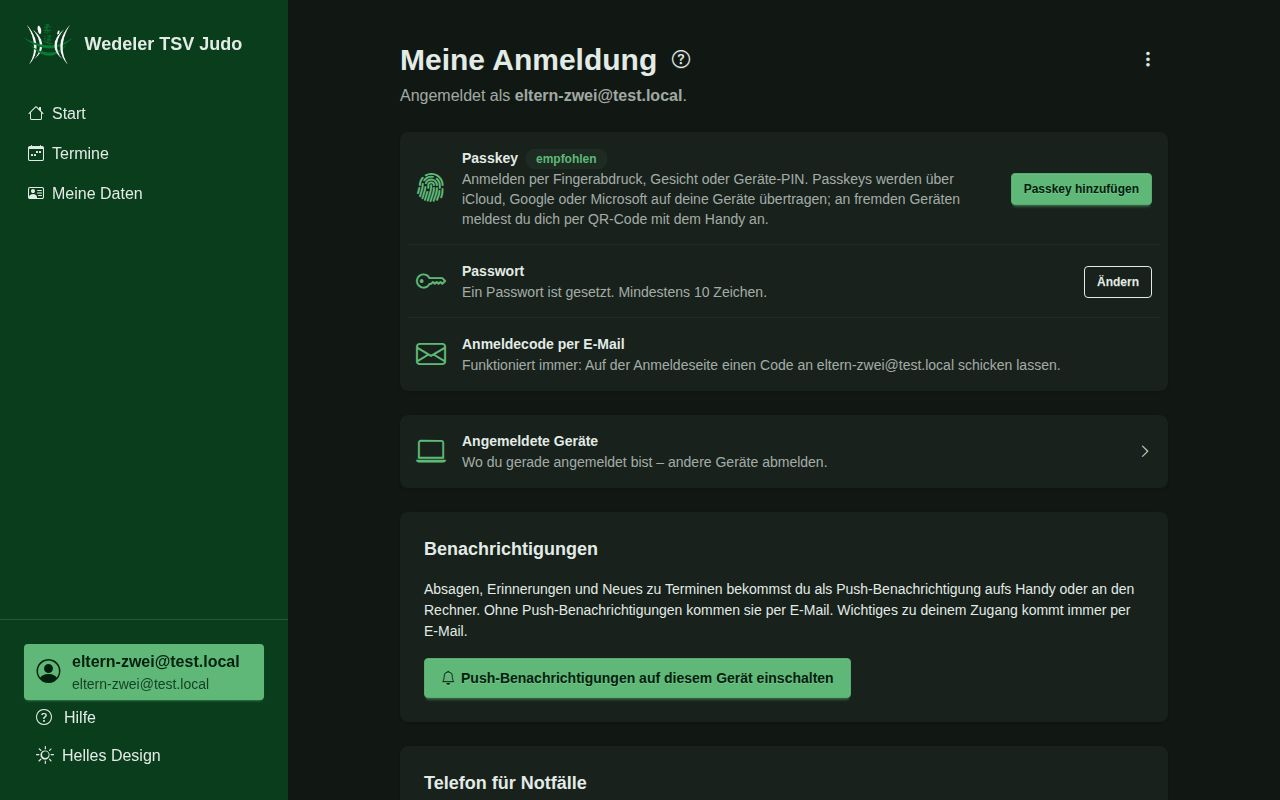
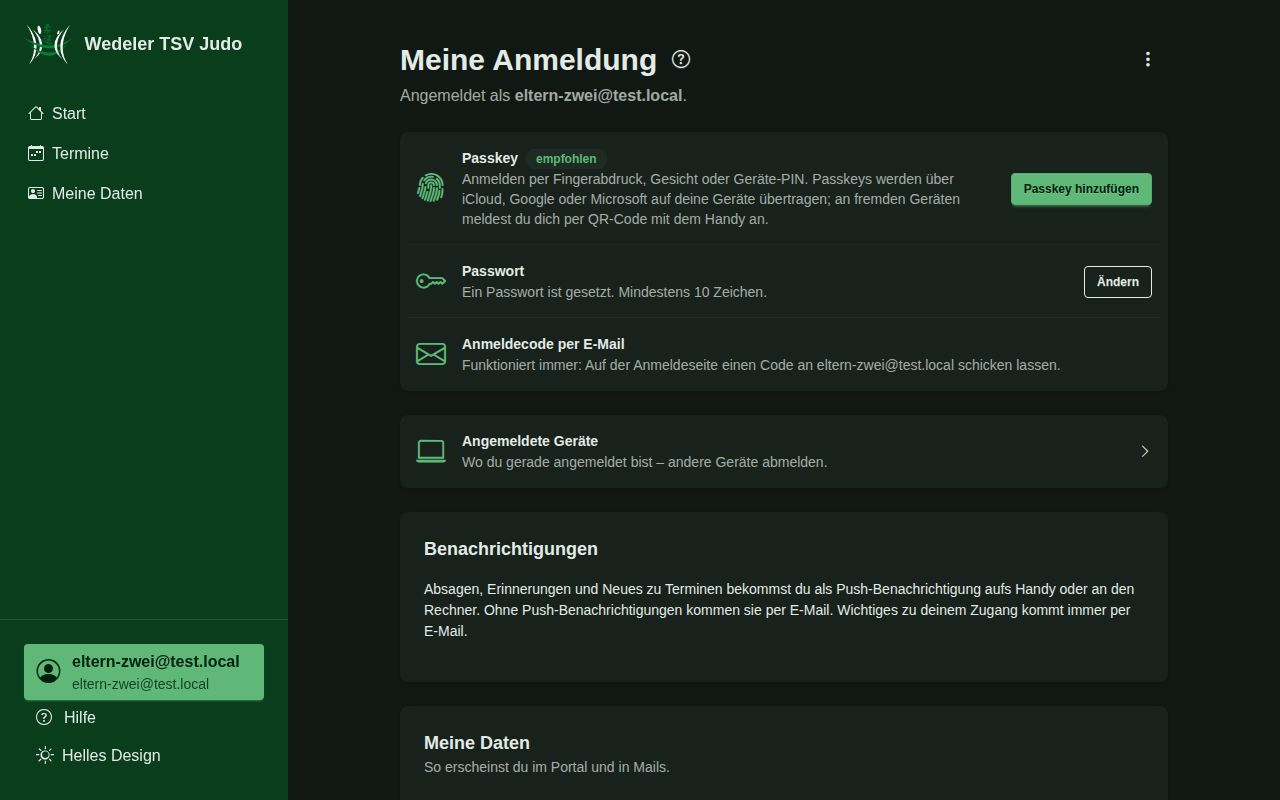
feat: Name des Benutzers bearbeitbar, Anrede „Liebe Eltern von …“
- Die Benutzerverwaltung ändert Vor- und Nachname zusammen mit den Rollen.
- Jeder pflegt Name und Telefon selbst unter „Meine Anmeldung“ → „Meine Daten“
  (Änderungsprotokoll).
- Eltern werden wie bisher ohne Namen eingeladen. Bis sie ihn ergänzen, lautet
  die Anrede in Einladung, Mails und auf der Startseite „Liebe Eltern von …“,
  und die Startseite erinnert daran. accounts fragt die Anrede über das Signal
  greeting_requested ab, members beantwortet es.

Claude-Session: https://claude.ai/code/session_017LHgXea5AxfRcr57bsDwjB

Changed region(s): [[0.3125, 0.8125, 0.6875, 0.875], [0.3125, 0.9062, 0.5312, 1.0]]

diff --git a/portal/templates/accounts/email/invitation.html b/portal/templates/accounts/email/invitation.html
@@ -3,7 +3,7 @@
   <table role="presentation" width="100%" cellpadding="0" cellspacing="0" style="max-width:560px;margin:0 auto;background:#ffffff;border-radius:14px;">
     <tr><td style="background:#0a3d1c;color:#ffffff;padding:20px 28px;border-radius:14px 14px 0 0;font-size:20px;font-weight:700;">Wedeler TSV Judo</td></tr>
     <tr><td style="padding:28px;">
-      <p style="margin:0 0 16px;font-size:16px;">Hallo{% if invitation.first_name %} {{ invitation.first_name }}{% endif %},</p>
+      <p style="margin:0 0 16px;font-size:16px;">{{ greeting }},</p>
       <p style="margin:0 0 16px;font-size:16px;line-height:1.5;">du wurdest ins Vereinsportal der Judo-Abteilung im Wedeler TSV eingeladen.</p>
       <p style="margin:24px 0;"><a href="{{ url }}" style="background:#027d31;color:#ffffff;text-decoration:none;padding:12px 22px;border-radius:10px;font-weight:600;display:inline-block;">Zugang einrichten</a></p>
       <p style="margin:0 0 16px;font-size:14px;color:#5c5c5c;line-height:1.5;">Der Link ist {{ days }} Tage gültig. Nach der Einrichtung meldest du dich auf <a href="{{ base_url }}" style="color:#027d31;">{{ base_url }}</a> mit Passkey, Passwort oder einem Code per E-Mail an. Ist der Link abgelaufen oder funktioniert nicht, schreib an <a href="mailto:judo@wedeler-tsv.de" style="color:#027d31;">judo@wedeler-tsv.de</a>, dann bekommst du einen neuen.</p>

diff --git a/portal/privacy/templates/privacy/email/deletion_notice.html b/portal/privacy/templates/privacy/email/deletion_notice.html
@@ -3,7 +3,7 @@
   <table role="presentation" width="100%" cellpadding="0" cellspacing="0" style="max-width:560px;margin:0 auto;background:#ffffff;border-radius:14px;">
     <tr><td style="background:#0a3d1c;color:#ffffff;padding:20px 28px;border-radius:14px 14px 0 0;font-size:20px;font-weight:700;">Wedeler TSV Judo</td></tr>
     <tr><td style="padding:28px;">
-      <p style="margin:0 0 16px;font-size:16px;">Hallo {{ user.get_short_name }},</p>
+      <p style="margin:0 0 16px;font-size:16px;">{{ user.greeting }},</p>
       <p style="margin:0 0 16px;font-size:16px;line-height:1.5;">{% if own %}dein Austritt aus der Judo-Abteilung ist eingetragen{% else %}der Austritt von <strong>{{ member.display_name }}</strong> aus der Judo-Abteilung ist eingetragen{% endif %} ({{ member.left_on|date:"d.m.Y" }}).</p>
       <p style="margin:0 0 16px;font-size:16px;line-height:1.5;">Am <strong>{{ when|date:"d.m.Y" }}</strong> löschen wir {% if own %}deine Daten{% else %}die Daten von {{ member.display_name }}{% endif %} im Vereinsportal: Stammdaten, Teilnahmen an Terminen und Abrechnungen. Hast du dann kein weiteres Mitglied im Portal, wird auch dein Zugang gelöscht.</p>
       <p style="margin:0 0 16px;font-size:16px;line-height:1.5;">Bis dahin kannst du unter „Meine Daten“ die Datenauskunft (Art. 15 DSGVO) als PDF herunterladen.</p>

diff --git a/portal/help/templates/help/chapters/benutzer.html b/portal/help/templates/help/chapters/benutzer.html
@@ -4,7 +4,7 @@
 <h2 id="einladen">Einladen und Rollen</h2>
 <ul>
   <li><strong>Benutzer anlegen:</strong> E-Mail, Name und Rollen (Übungsleiter, Abteilungsleiter, Administrator); die Person bekommt eine Einladung per Mail. Statt per Mail kannst du auch nur einen Link erzeugen und z. B. per Messenger weitergeben.</li>
-  <li><strong>Rollen ändern:</strong> Auf den Namen tippen, Rollen wählen, speichern. Administratoren ändert nur ein Administrator.</li>
+  <li><strong>Name und Rollen ändern:</strong> Auf den Namen tippen, Name korrigieren oder Rollen wählen, speichern. Den eigenen Namen ändert jeder auch selbst unter <strong>Meine Anmeldung</strong>. Administratoren ändert nur ein Administrator.</li>
   <li><strong>Deaktivieren:</strong> Am Benutzer über <strong><i class="bi bi-three-dots-vertical" aria-hidden="true"></i> Weitere Aktionen</strong> → <strong>Benutzer deaktivieren</strong>. Er kann sich dann nicht mehr anmelden; wieder aktivieren geht jederzeit.</li>
   <li>Hat jemand den Zugang noch nicht eingerichtet, kannst du am Benutzer die Einladung <strong>erneut senden</strong> oder einen neuen Link erstellen.</li>
 </ul>

diff --git a/portal/members/templates/members/email/link_notice.html b/portal/members/templates/members/email/link_notice.html
@@ -3,7 +3,7 @@
   <table role="presentation" width="100%" cellpadding="0" cellspacing="0" style="max-width:560px;margin:0 auto;background:#ffffff;border-radius:14px;">
     <tr><td style="background:#0a3d1c;color:#ffffff;padding:20px 28px;border-radius:14px 14px 0 0;font-size:20px;font-weight:700;">Wedeler TSV Judo</td></tr>
     <tr><td style="padding:28px;">
-      <p style="margin:0 0 16px;font-size:16px;">Hallo {{ user.get_short_name }},</p>
+      <p style="margin:0 0 16px;font-size:16px;">{{ user.greeting }},</p>
       <p style="margin:0 0 16px;font-size:16px;line-height:1.5;">dein Benutzer im Vereinsportal ist jetzt mit <strong>{{ member.display_name }}</strong> verknüpft{% if kind == "guardian" %} (als Elternteil){% endif %}.</p>
       <p style="margin:0 0 16px;font-size:16px;line-height:1.5;">Unter „Meine Daten“ siehst du die Daten und kannst Kontakt- und Judo-Daten selbst anpassen.</p>
       <p style="margin:24px 0;"><a href="{{ url }}" style="background:#027d31;color:#ffffff;text-decoration:none;padding:12px 22px;border-radius:10px;font-weight:600;display:inline-block;">Meine Daten öffnen</a></p>

diff --git a/portal/templates/core/home.html b/portal/templates/core/home.html
@@ -4,7 +4,7 @@
 {% block content %}
 {% open_confirmations user as open_hours %}{% pending_claims_count user as open_claims %}
 <header class="mb-6">
-  <h1 class="text-3xl font-bold">Hallo {{ user.get_short_name }}</h1>
+  <h1 class="text-3xl font-bold">{{ user.greeting }}</h1>
   {% if open_claims %}
   <ul class="mt-3 flex flex-wrap gap-2" aria-label="Zu erledigen">
     <li><a class="badge badge-soft badge-primary gap-1 py-3 hover:underline" href="{% url 'claim_list' %}">{{ open_claims }} Abrechnung{{ open_claims|pluralize:"en" }} zu prüfen <i class="bi bi-arrow-right" aria-hidden="true"></i></a></li>
@@ -12,6 +12,9 @@
   {% endif %}
 </header>
 
+{% if not user.first_name %}
+<div class="alert alert-soft mb-8"><i class="bi bi-person-vcard text-lg" aria-hidden="true"></i><span>Wir kennen deinen Namen noch nicht. Ergänze ihn bitte unter <a class="link" href="{% url 'security' %}#meine-daten">Meine Daten</a>.</span></div>
+{% endif %}
 {% include "notifications/_teaser.html" %}
 {% if open_hours %}
 <section class="card mb-8 bg-base-100 shadow-sm" aria-labelledby="h-stunden"><div class="card-body">

diff --git a/portal/notifications/templates/notifications/email/notification.html b/portal/notifications/templates/notifications/email/notification.html
@@ -3,7 +3,7 @@
   <table role="presentation" width="100%" cellpadding="0" cellspacing="0" style="max-width:560px;margin:0 auto;background:#ffffff;border-radius:14px;">
     <tr><td style="background:#0a3d1c;color:#ffffff;padding:20px 28px;border-radius:14px 14px 0 0;font-size:20px;font-weight:700;">Wedeler TSV Judo</td></tr>
     <tr><td style="padding:28px;">
-      <p style="margin:0 0 16px;font-size:16px;">Hallo {{ user.get_short_name }},</p>
+      <p style="margin:0 0 16px;font-size:16px;">{{ user.greeting }},</p>
       <p style="margin:0 0 16px;font-size:16px;line-height:1.5;">{{ body }}</p>
       <p style="margin:24px 0;"><a href="{{ url }}" style="background:#027d31;color:#ffffff;text-decoration:none;padding:12px 22px;border-radius:10px;font-weight:600;display:inline-block;">Im Portal öffnen</a></p>
       <p style="margin:0;font-size:14px;color:#5c5c5c;line-height:1.5;">Tipp: Unter „Meine Anmeldung“ kannst du Push-Benachrichtigungen aufs Handy einschalten, dann kommen solche Hinweise dort an.</p>

diff --git a/portal/templates/accounts/security.html b/portal/templates/accounts/security.html
@@ -22,10 +22,11 @@
   </li>
 </ul>
 {% include "notifications/_settings.html" %}
-<section class="card mt-6 bg-base-100 shadow-sm" aria-labelledby="h-telefon"><div class="card-body gap-4">
-  <h2 class="card-title" id="h-telefon">Telefon für Notfälle</h2>
+<section class="card mt-6 bg-base-100 shadow-sm" aria-labelledby="h-daten" id="meine-daten"><div class="card-body gap-4">
+  <div><h2 class="card-title" id="h-daten">Meine Daten</h2><p class="text-sm text-base-content/70">So erscheinst du im Portal und in Mails.</p></div>
   <form method="post" class="flex flex-col gap-4">{% csrf_token %}
-    {{ phone_form }}
+    <div class="grid gap-x-4 sm:grid-cols-2">{{ profile_form.first_name.as_field_group }}{{ profile_form.last_name.as_field_group }}</div>
+    {{ profile_form.phone.as_field_group }}
     <div><button type="submit" class="btn btn-primary">Speichern</button></div>
   </form>
 </div></section>

diff --git a/portal/help/templates/help/chapters/zugang.html b/portal/help/templates/help/chapters/zugang.html
@@ -12,8 +12,11 @@
 <h2 id="geraete">Angemeldete Geräte</h2>
 <p>Du siehst, wo du gerade angemeldet bist, und kannst andere Geräte abmelden – z. B. nach der Nutzung eines fremden Rechners.</p>
 
-<h2 id="telefon">Telefon für Notfälle</h2>
-<p>Eltern tragen hier ihre Telefonnummer ein. Die Übungsleiter eines Termins sehen sie in der Teilnehmerliste, um euch im Notfall zu erreichen.</p>
+<h2 id="daten">Meine Daten</h2>
+<ul>
+  <li><strong>Name:</strong> So erscheinst du im Portal und in Mails. Eltern laden wir ohne Namen ein; bis ihr ihn ergänzt, schreiben wir „Liebe Eltern von …“ und die Startseite erinnert daran.</li>
+  <li><strong>Telefon für Notfälle:</strong> Eltern tragen hier ihre Telefonnummer ein. Die Übungsleiter eines Termins sehen sie in der Teilnehmerliste, um euch im Notfall zu erreichen.</li>
+</ul>
 
 <h2 id="abmelden">Abmelden und Zugang löschen</h2>
 <ul>

diff --git a/portal/accounts/views.py b/portal/accounts/views.py
@@ -12,7 +12,7 @@ from django.views.decorators.http import require_POST
 from portal.core import audit
 
 from . import services
-from .forms import InvitationForm, PhoneForm, RolesForm
+from .forms import InvitationForm, ProfileForm, UserForm
 from .models import Invitation, Role, User
 from .permissions import MANAGE_USERS, role_required
 
@@ -66,25 +66,28 @@ def setup_login(request: HttpRequest) -> HttpResponse:
 
 @login_required
 def security(request: HttpRequest) -> HttpResponse:
-    """„Meine Anmeldung“: Passkeys, Passwort, angemeldete Geräte und Telefon für Notfälle."""
-    form = PhoneForm(request.POST or None, instance=request.user)
-    before = request.user.phone  # type: ignore[union-attr]
+    """„Meine Anmeldung“: Passkeys, Passwort, angemeldete Geräte und eigene Daten (Name, Telefon für Notfälle)."""
+    user: User = request.user  # type: ignore[assignment]
+    before = _profile(user)
+    form = ProfileForm(request.POST or None, instance=user)
     if request.method == "POST" and form.is_valid():
         form.save()
-        if before != request.user.phone:  # type: ignore[union-attr]
-            audit.log(
-                request.user,
-                audit.Area.LOGIN,
-                "phone",
-                "Telefon geändert",
-                user=request.user,
-                changes={"Telefon": [before, request.user.phone]},  # type: ignore[union-attr]
-            )
-        messages.success(request, "Telefon gespeichert.")
+        changes = _changes(before, _profile(user))
+        if changes:
+            audit.log(user, audit.Area.LOGIN, "profile", "Eigene Daten geändert", user=user, changes=changes)
+        messages.success(request, "Deine Daten sind gespeichert.")
         return redirect("security")
-    context = _login_methods(request.user)  # type: ignore[arg-type]
-    context["phone_form"] = form
+    context = _login_methods(user)
+    context["profile_form"] = form
     return render(request, "accounts/security.html", context)
+
+
+def _profile(user: User) -> dict[str, str]:
+    return {"Vorname": user.first_name, "Nachname": user.last_name, "Telefon": user.phone}
+
+
+def _changes(before: dict[str, str], after: dict[str, str]) -> dict[str, list[str]]:
+    return {label: [before[label], after[label]] for label in before if before[label] != after[label]}
 
 
 def _login_methods(user: User) -> dict[str, object]:
@@ -187,7 +190,9 @@ def edit_user(request: HttpRequest, pk: int) -> HttpResponse:
     if target_user.has_role(Role.ADMIN) and not allow_admin:
         messages.error(request, "Administratoren kann nur ein Administrator ändern.")
         return redirect("user_list")
-    form = RolesForm(request.POST or None, allow_admin=allow_admin, initial={"roles": target_user.roles})
+    before = {"Vorname": target_user.first_name, "Nachname": target_user.last_name}
+    before_name = target_user.display_name
+    form = UserForm(request.POST or None, instance=target_user, allow_admin=allow_admin)
     if request.method == "POST" and form.is_valid():
         roles = list(form.cleaned_data["roles"])
         if not allow_admin and Role.ADMIN in target_user.roles:
@@ -195,18 +200,24 @@ def edit_user(request: HttpRequest, pk: int) -> HttpResponse:
         if target_user == actor and Role.ADMIN in target_user.roles and Role.ADMIN not in roles:
             messages.error(request, "Du kannst dir die Administrator-Rolle nicht selbst entziehen.")
             return redirect("edit_user", pk=target_user.pk)
-        before = target_user.role_labels
+        form.save()
+        changes = _changes(before, {"Vorname": target_user.first_name, "Nachname": target_user.last_name})
+        if changes:
+            audit.log(
+                actor, audit.Area.USERS, "name", f"Name von {before_name} geändert", user=target_user, changes=changes
+            )
+        role_before = target_user.role_labels
         target_user.set_roles(roles)
-        if before != target_user.role_labels:
+        if role_before != target_user.role_labels:
             audit.log(
                 actor,
                 audit.Area.USERS,
                 "roles",
                 f"Rollen von {target_user.display_name} geändert",
                 user=target_user,
-                changes={"Rollen": [", ".join(before), ", ".join(target_user.role_labels)]},
+                changes={"Rollen": [", ".join(role_before), ", ".join(target_user.role_labels)]},
             )
-        messages.success(request, f"Rollen von {target_user.display_name} gespeichert.")
+        messages.success(request, f"{target_user.display_name} gespeichert.")
         return redirect("user_list")
     return render(
         request,

diff --git a/portal/accounts/tests/test_accounts.py b/portal/accounts/tests/test_accounts.py
@@ -8,6 +8,7 @@ from django.utils import timezone
 from portal.accounts import services
 from portal.accounts.adapter import PortalAccountAdapter
 from portal.accounts.models import Invitation, Role, User
+from portal.core.models import AuditEntry
 
 pytestmark = pytest.mark.django_db
 
@@ -220,3 +221,29 @@ def test_security_page_offers_add_or_manage_passkey(client) -> None:
     Authenticator.objects.create(user=user, type=Authenticator.Type.WEBAUTHN, data={"name": "Handy"})
     page = client.get(reverse("security")).content.decode()
     assert ">Verwalten<" in page and ">Passkey hinzufügen<" not in page
+
+
+class TestName:
+    def test_users_change_their_own_name(self, client) -> None:
+        user = make_user("mia@example.org", Role.MEMBER)
+        client.force_login(user)
+        response = client.post(
+            reverse("security"), {"first_name": " Mia ", "last_name": "Muster", "phone": "0170 1"}, follow=True
+        )
+        assert "Deine Daten sind gespeichert." in response.content.decode()
+        user.refresh_from_db()
+        assert (user.first_name, user.last_name, user.phone) == ("Mia", "Muster", "0170 1")
+        entry = AuditEntry.objects.get(action="profile")
+        assert entry.changes["Vorname"] == ["", "Mia"] and "Telefon" in entry.changes
+
+    def test_user_management_changes_name_and_roles(self, client) -> None:
+        client.force_login(make_user("alex@example.org", Role.DEPARTMENT_HEAD))
+        mia = make_user("mia@example.org", Role.MEMBER)
+        page = client.get(reverse("edit_user", args=[mia.pk])).content.decode()
+        assert 'name="first_name"' in page and 'name="last_name"' in page
+        client.post(
+            reverse("edit_user", args=[mia.pk]), {"first_name": "Mia", "last_name": "Muster", "roles": ["trainer"]}
+        )
+        mia.refresh_from_db()
+        assert (mia.first_name, mia.last_name, mia.roles) == ("Mia", "Muster", ["trainer"])
+        assert AuditEntry.objects.get(action="name").changes == {"Vorname": ["", "Mia"], "Nachname": ["", "Muster"]}

diff --git a/portal/members/tests/test_access.py b/portal/members/tests/test_access.py
@@ -125,3 +125,31 @@ def test_unlink(client, head) -> None:
     client.force_login(head)
     client.post(reverse("member_unlink", args=[member.pk, member_link.pk]))
     assert not MemberLink.objects.exists()
+
+
+def test_parents_are_greeted_with_their_children(client, head, django_capture_on_commit_callbacks) -> None:
+    """Eltern laden wir ohne Namen ein; Anrede „Liebe Eltern von …“, bis sie ihren Namen ergänzen."""
+    kim, lea = make_member("Kim", age=8), make_member("Lea", age=6)
+    with django_capture_on_commit_callbacks(execute=True):
+        _, invitation = services.give_access(kim, "eltern@example.org", LinkKind.GUARDIAN, invited_by=head)
+    assert invitation is not None and (invitation.first_name, invitation.last_name) == ("", "")
+    assert mail.outbox[0].body.startswith("Liebe Eltern von Kim,")
+
+    client.post(reverse("accept_invitation", args=[invitation.token]))
+    parent = User.objects.get(email="eltern@example.org")
+    services.link(lea, parent, LinkKind.GUARDIAN)
+    assert parent.greeting == "Liebe Eltern von Kim und Lea"
+    client.logout()
+    client.force_login(parent)
+    home = client.get(reverse("home")).content.decode()
+    assert "Liebe Eltern von Kim und Lea" in home and "Wir kennen deinen Namen noch nicht" in home
+
+    parent.first_name = "Sam"
+    parent.save()
+    assert parent.greeting == "Hallo Sam"
+    assert "Wir kennen deinen Namen noch nicht" not in client.get(reverse("home")).content.decode()
+
+
+def test_greeting_without_name_or_children() -> None:
+    assert User.objects.create_user("x@example.org").greeting == "Hallo"
+    assert accounts.greeting(invitation=accounts.invite("y@example.org", send=False)) == "Hallo"

diff --git a/portal/accounts/forms.py b/portal/accounts/forms.py
@@ -38,14 +38,26 @@ class InvitationForm(forms.Form):
         return email
 
 
-class RolesForm(forms.Form):
-    def __init__(self, *args: Any, allow_admin: bool, **kwargs: Any) -> None:
-        super().__init__(*args, **kwargs)
-        self.fields["roles"] = RolesField(allow_admin=allow_admin)
+class UserForm(forms.ModelForm):
+    """Name und Rollen eines Benutzers (Benutzerverwaltung)."""
 
-
-class PhoneForm(forms.ModelForm):
     class Meta:
         model = User
-        fields = ("phone",)
-        widgets = {"phone": forms.TextInput(attrs={"type": "tel", "autocomplete": "tel"})}
+        fields = ("first_name", "last_name")
+
+    def __init__(self, *args: Any, allow_admin: bool, **kwargs: Any) -> None:
+        super().__init__(*args, **kwargs)
+        self.fields["roles"] = RolesField(allow_admin=allow_admin, initial=self.instance.roles)
+
+
+class ProfileForm(forms.ModelForm):
+    """„Meine Daten“: Name und Telefon, die jeder Benutzer selbst pflegt."""
+
+    class Meta:
+        model = User
+        fields = ("first_name", "last_name", "phone")
+        widgets = {
+            "first_name": forms.TextInput(attrs={"autocomplete": "given-name"}),
+            "last_name": forms.TextInput(attrs={"autocomplete": "family-name"}),
+            "phone": forms.TextInput(attrs={"type": "tel", "autocomplete": "tel"}),
+        }
